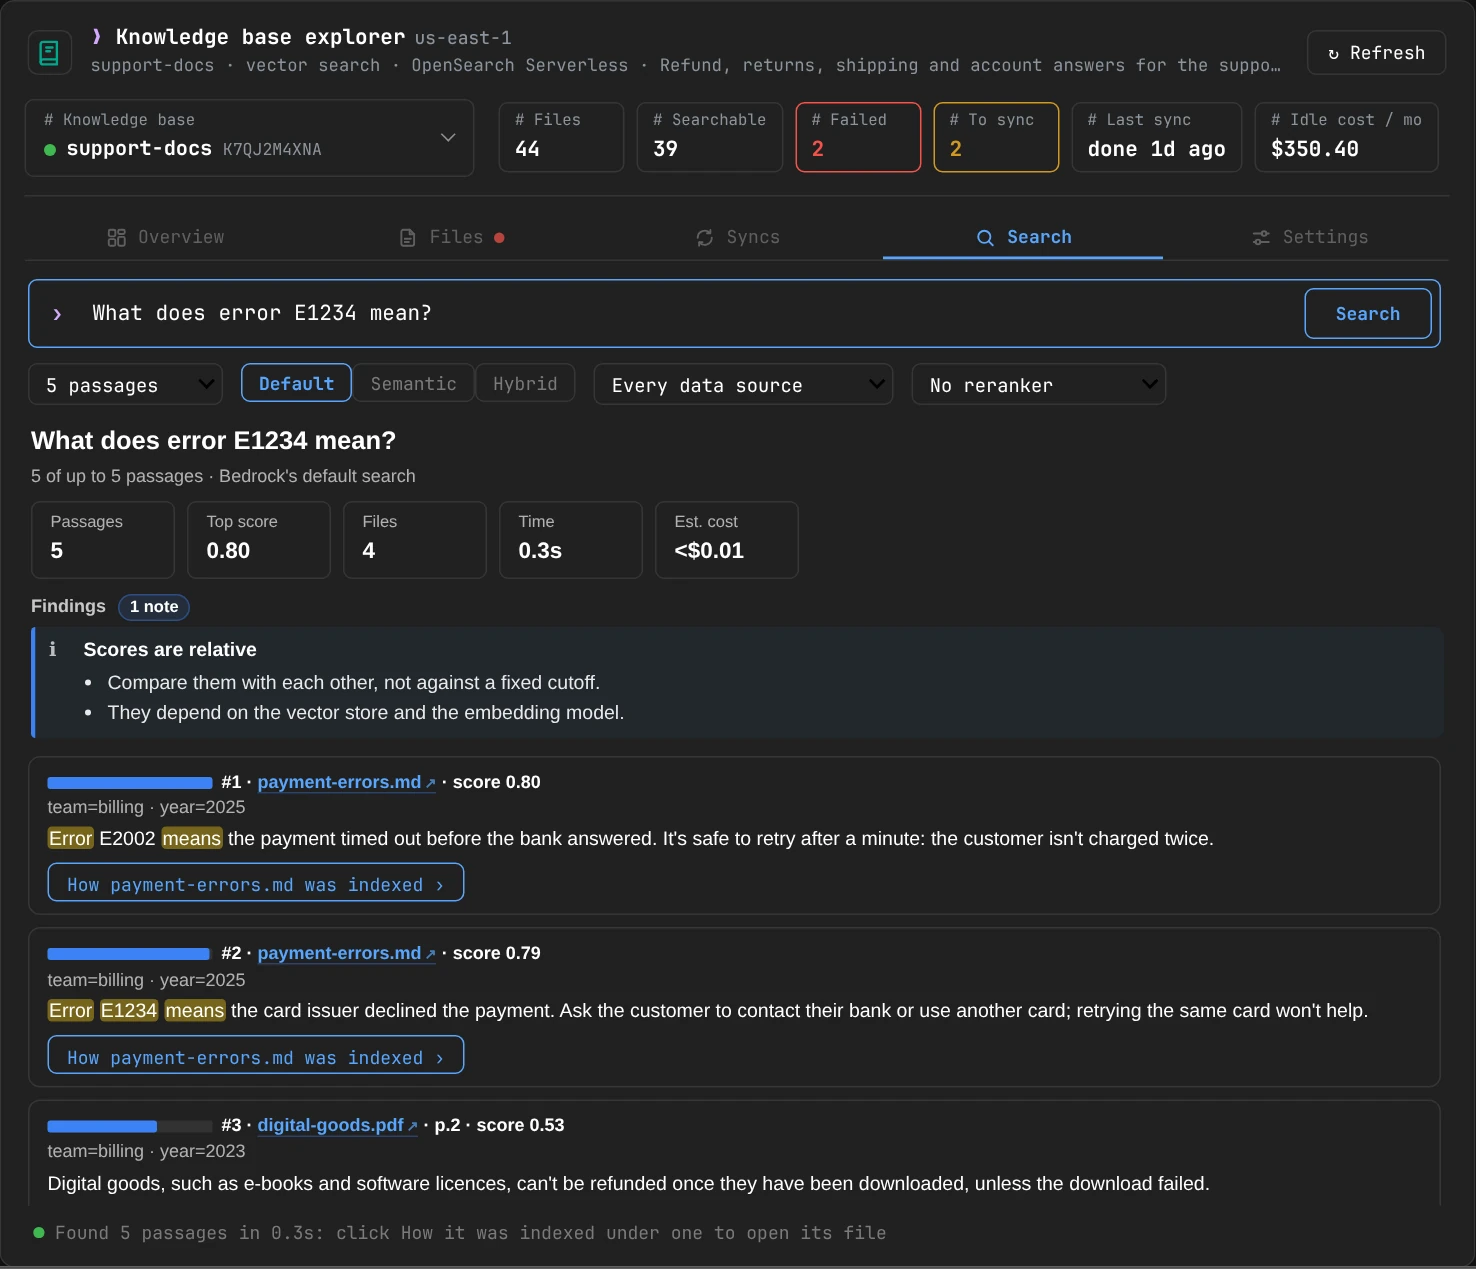
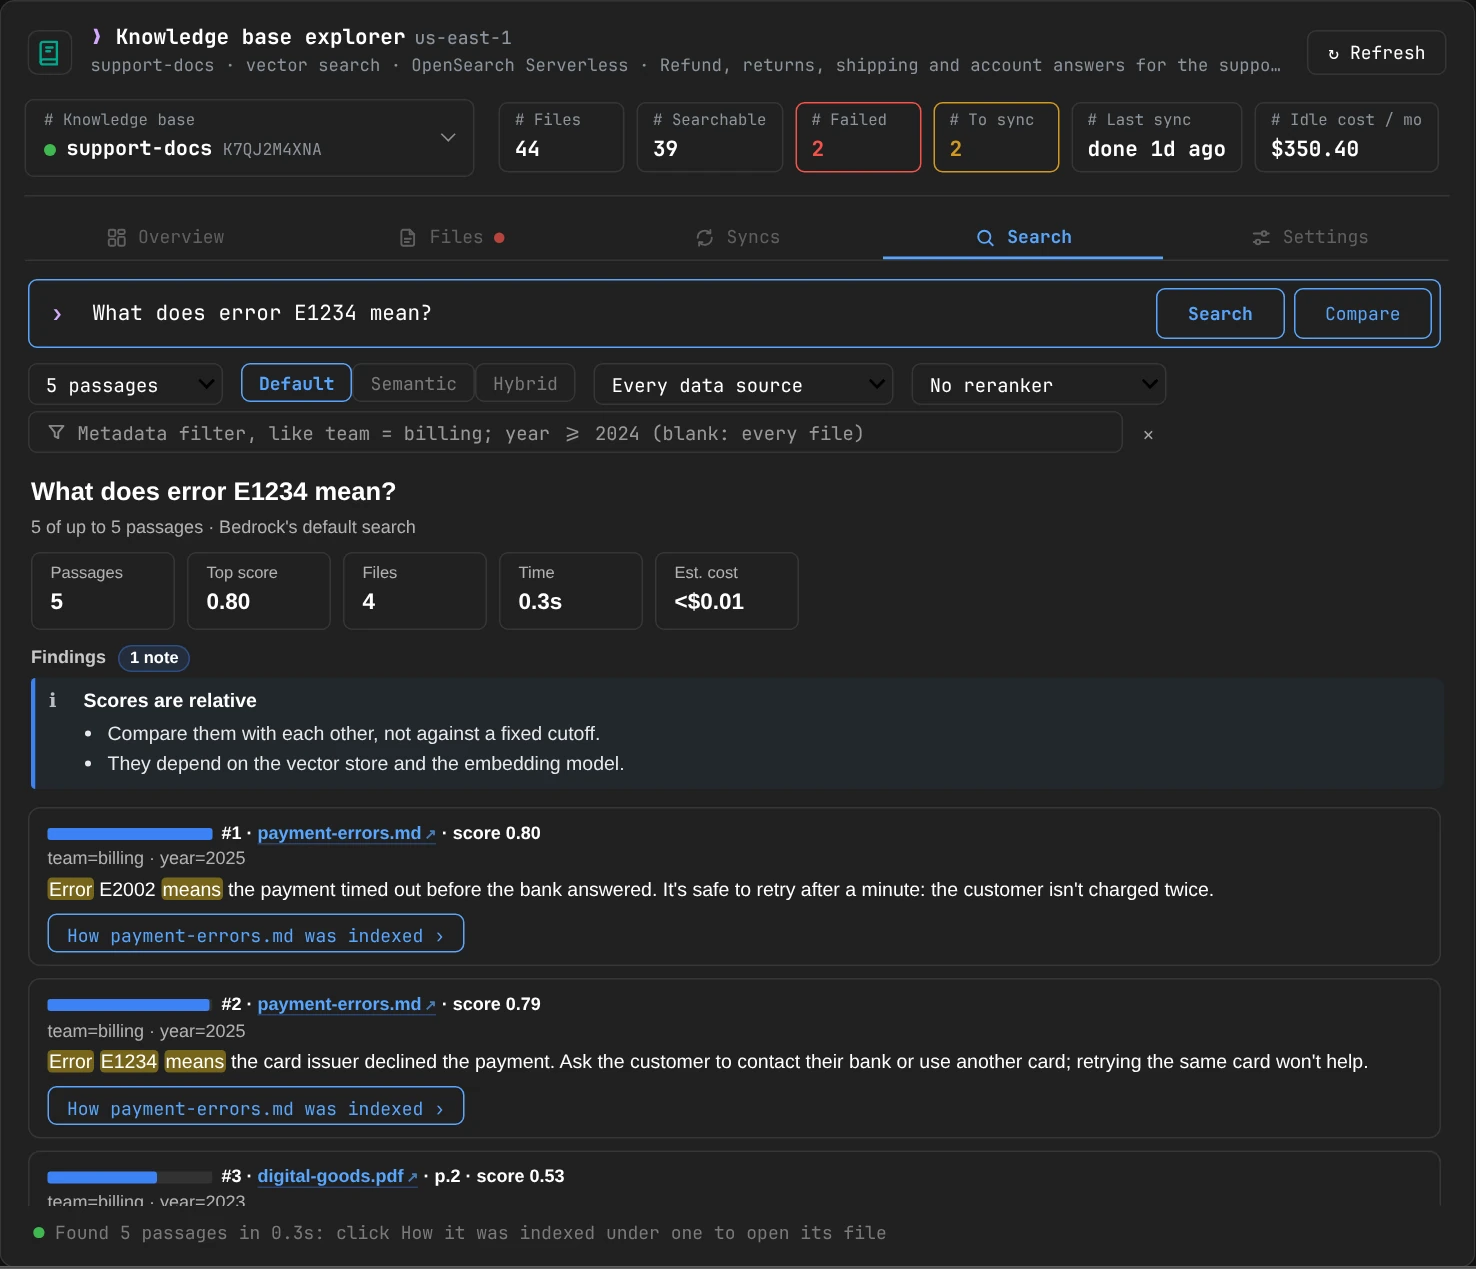
KB explorer Search: say what's running and what failed in the status line; new figures
Search and Compare now put a busy line in the status bar while they run, and
a failed search says why there too. The guide gains the metadata filter and
Compare figures (kb_explorer_shots.py makes them), and the Search figure is
remade with the new filter box and Compare button.

Claude-Session: https://claude.ai/code/session_01WWGEtVVkHF27bAF9PQuos1

diff --git a/.claude/skills/demo/kb_explorer_shots.py b/.claude/skills/demo/kb_explorer_shots.py
@@ -40,7 +40,7 @@ from chat_shots import api, chrome, free_port  # noqa: E402  (the same JupyterLa
 
 WIDTH, SCALE, IMAGES = shots.WIDTH, shots.SCALE, shots.IMAGES
 FIGURES = ("kb-explorer", "kb-explorer-file", "kb-explorer-chunks", "kb-explorer-ask", "kb-explorer-failed",
-           "kb-explorer-search", "kb-explorer-compare", "kb-explorer-syncs")
+           "kb-explorer-search", "kb-explorer-filter", "kb-explorer-compare", "kb-explorer-syncs")
 
 NOTEBOOK_CODE = f"""import os, sys
 sys.path[:0] = [{str(ROOT / "src")!r}, {str(HERE)!r}]
@@ -138,9 +138,25 @@ def shoot_theme(page, base: str, token: str, theme: str, wanted: list[str], out:
     page.mouse.move(1, 1)
     shot("kb-explorer-search")
     box.fill("How long do refunds take?")
-    page.locator(".kbx-app input[placeholder^='Metadata filter']").fill("team = billing")
-    page.locator(".kbx-app button.kbx-compare").first.click()
+    where = page.locator(".kbx-app input[placeholder^='Metadata filter']")
+    where.fill("team = billing; year >= 2024")
+    where.press("Enter")
     settled()
+    page.mouse.move(1, 1)
+    shot("kb-explorer-filter")
+    where.fill("team = billing")
+    page.locator(".kbx-app button.kbx-compare").first.click()
+    page.wait_for_function("!document.querySelector('.kbx-app button.kbx-compare').disabled", timeout=30_000)
+    settled()
+    page.evaluate("""() => {  // the findings' end and the table of ranks in view
+        const title = [...document.querySelectorAll('.kbx-app .kba h4')]
+            .find(el => el.textContent.includes('Rank of each passage'));
+        let box = title && title.parentElement;
+        while (box && !(box.scrollHeight > box.clientHeight + 4 && getComputedStyle(box).overflowY !== 'visible')) {
+            box = box.parentElement;
+        }
+        if (box) box.scrollTop += title.getBoundingClientRect().top - box.getBoundingClientRect().top - 260;
+    }""")
     page.mouse.move(1, 1)
     shot("kb-explorer-compare")
     tab("Syncs")

diff --git a/tests/test_bedrock_kb.py b/tests/test_bedrock_kb.py
@@ -4461,6 +4461,11 @@ def test_explorer_search_tab_compares_search_settings(world):
     assert x.compared.question == "refund window" and "where team = 'billing'" in plain(x.search_head.value)
     x.search("refund window")
     assert x.compared is None and x.found is not None
+    world.errors["retrieve"] = ClientError(
+        {"Error": {"Code": "AccessDeniedException", "Message": "not allowed"}}, "Retrieve")
+    x.compare_button.click()
+    assert "not allowed" in plain(x.status.value) and "not allowed" in plain(x.search_head.value)
+    assert not x.compare_button.disabled and not x.search_button.disabled
 
 
 def test_explorer_focus_says_what_you_are_looking_at(world):

diff --git a/src/aws_analyzer/bedrock_kb/explorer/search.py b/src/aws_analyzer/bedrock_kb/explorer/search.py
@@ -186,10 +186,13 @@ class _SearchTab:
         self._searching(True, button)
         self._set(self.search_head, _skeleton(note))
         self.hits.children = []
+        self._status(note, busy=True)
 
     def _search_failed(self, exc: BaseException) -> None:
         self._searching(False)
-        self._set(self.search_head, self._html([_Note(self._error_text(exc), "warn")]))
+        text = self._error_text(exc)
+        self._set(self.search_head, self._html([_Note(text, "warn")]))
+        self._status(text, "warn")
 
     def _searched(self, r: Retrieval) -> None:
         self._searching(False)

diff --git a/docs/bedrock_kb.md b/docs/bedrock_kb.md
@@ -248,10 +248,22 @@ The **Search**, **Syncs** and **Settings** tabs are the reports below, a click a
     - **Syncs** is the sync history as a timeline, newest first: which data source, when it ran and how long it took, what it read, added, changed, deleted and couldn't index, and why a sync failed.
     - **Settings** has every setting in plain English: the embedding model and its dimensions, the vector store and which of its fields holds each part of a chunk, each data source's location, chunking, parser and deletion policy, and the tags. GetKnowledgeBase and GetDataSource as AWS returns them are folded at the end, with the AWS CLI commands that read them.
 
-    ![The Search tab: What does error E1234 mean? in the search box, the options (5 passages, Default, Semantic or Hybrid search, every data source, no reranker), cards for 5 passages, the top score, 4 files, the time and the cost, a note that scores are relative, and the passages: payment-errors.md twice with Error, E1234 and means highlighted, then digital-goods.pdf, each with a How it was indexed button](images/kb-explorer-search-light.webp#only-light){ width="984" height="846" loading=lazy }
-    ![The Search tab: What does error E1234 mean? in the search box, the options (5 passages, Default, Semantic or Hybrid search, every data source, no reranker), cards for 5 passages, the top score, 4 files, the time and the cost, a note that scores are relative, and the passages: payment-errors.md twice with Error, E1234 and means highlighted, then digital-goods.pdf, each with a How it was indexed button](images/kb-explorer-search-dark.webp#only-dark){ width="984" height="846" loading=lazy }
+    ![The Search tab: What does error E1234 mean? in the search box beside Search and Compare, the options (5 passages, Default, Semantic or Hybrid search, every data source, no reranker), an empty metadata filter box, cards for 5 passages, the top score, 4 files, the time and the cost, a note that scores are relative, and the passages: payment-errors.md twice with Error, E1234 and means highlighted, then digital-goods.pdf, each with a How it was indexed button](images/kb-explorer-search-light.webp#only-light){ width="984" height="846" loading=lazy }
+    ![The Search tab: What does error E1234 mean? in the search box beside Search and Compare, the options (5 passages, Default, Semantic or Hybrid search, every data source, no reranker), an empty metadata filter box, cards for 5 passages, the top score, 4 files, the time and the cost, a note that scores are relative, and the passages: payment-errors.md twice with Error, E1234 and means highlighted, then digital-goods.pdf, each with a How it was indexed button](images/kb-explorer-search-dark.webp#only-dark){ width="984" height="846" loading=lazy }
     /// caption
     **Search**: each passage's **How … was indexed ›** opens its file's page.
+    ///
+
+    ![The Search tab with the metadata filter team = billing; year >= 2024: How long do refunds take? finds 5 passages, the subtitle saying where team = 'billing', year >= 2024, and each passage shows its metadata, team=billing and year=2024 or 2025](images/kb-explorer-filter-light.webp#only-light){ width="984" height="846" loading=lazy }
+    ![The Search tab with the metadata filter team = billing; year >= 2024: How long do refunds take? finds 5 passages, the subtitle saying where team = 'billing', year >= 2024, and each passage shows its metadata, team=billing and year=2024 or 2025](images/kb-explorer-filter-dark.webp#only-dark){ width="984" height="846" loading=lazy }
+    /// caption
+    A **metadata filter** under the options: only the files whose `.metadata.json` matches.
+    ///
+
+    ![Compare for How long do refunds take? with the filter team = billing, scrolled to its findings (10 passages add gift-cards.md; Semantic and Hybrid return the same passages in the same order) and the table of each passage's rank under Semantic and Hybrid at 5 and 10 passages: refund-policy.pdf first under every setting, gift-cards.md found only at 10](images/kb-explorer-compare-light.webp#only-light){ width="984" height="846" loading=lazy }
+    ![Compare for How long do refunds take? with the filter team = billing, scrolled to its findings (10 passages add gift-cards.md; Semantic and Hybrid return the same passages in the same order) and the table of each passage's rank under Semantic and Hybrid at 5 and 10 passages: refund-policy.pdf first under every setting, gift-cards.md found only at 10](images/kb-explorer-compare-dark.webp#only-dark){ width="984" height="846" loading=lazy }
+    /// caption
+    **Compare**: where each passage ranks with each search type and number of passages.
     ///
 
     ![The Syncs tab: cards for 6 syncs, 1 failed, the last successful one a day ago and documents failed; a warning that the last sync of docs-s3 couldn't index 2 documents and that the Files tab's Failed filter shows them; then a timeline of the six syncs, green for done, amber for the one that couldn't parse 2 documents, red for the one that failed because the role wasn't allowed s3:GetObject; and the sync commands to copy](images/kb-explorer-syncs-light.webp#only-light){ width="984" height="846" loading=lazy }
